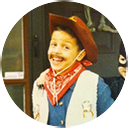
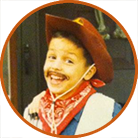
new orange border on image, trying to get mobile header image to fit proper

diff --git a/themes/mintheme/static/css/main.less b/themes/mintheme/static/css/main.less
@@ -71,7 +71,12 @@ img {
         .eric {
             float: none !important;
             margin-top: 30px !important;
+            margin-bottom: 70px !important;
             margin-right: 0 !important;
+
+            background-image: url('../images/eric3_large.png') !important;
+            width: 275px !important;
+            height: 275px !important;
         }
         .title {
             display: none;
@@ -94,6 +99,12 @@ img {
             }
         }
     }
+
+    .footer {
+        .social-icons {
+            margin-top: 25px;
+        }
+    }
 }
 
 /*
@@ -108,6 +119,10 @@ img {
         margin-right: 35px;
         border: 0;
         padding: 0;
+
+        background-image: url('../images/eric3.png');
+        width: 138px;
+        height: 138px;
     }
     .title {
         font-weight: 300 !important;
@@ -141,18 +156,20 @@ img {
         font-size: 12px;
     }
 
-    .fa {
-        margin-left: 5px;
-        &:hover {
-            color: #63bdff;
+    .social-icons {
+        .fa {
+            margin-left: 5px;
+            &:hover {
+                color: #63bdff;
+            }
         }
-    }
 
-    .fa-rss { color: #FF6600; }
-    .fa-twitter { color: #4099ff; }
-    .fa-facebook { color: #3B5998; }
-    .fa-linkedin { color: #0e76a8; }
-    .fa-github { color: rgb(122, 122, 122); }
+        .fa-rss { color: #FF6600; }
+        .fa-twitter { color: #4099ff; }
+        .fa-facebook { color: #3B5998; }
+        .fa-linkedin { color: #0e76a8; }
+        .fa-github { color: rgb(122, 122, 122); }
+    }
 }
 
 

diff --git a/themes/mintheme/static/css/main.css b/themes/mintheme/static/css/main.css
@@ -67,7 +67,11 @@ img {
   .header .eric {
     float: none !important;
     margin-top: 30px !important;
+    margin-bottom: 70px !important;
     margin-right: 0 !important;
+    background-image: url('../images/eric3_large.png') !important;
+    width: 275px !important;
+    height: 275px !important;
   }
   .header .title {
     display: none;
@@ -88,6 +92,9 @@ img {
     font-size: 32px;
     background-color: #0E0E0E;
   }
+  .footer .social-icons {
+    margin-top: 25px;
+  }
 }
 /*
  * Base stuff, header/footer
@@ -101,6 +108,9 @@ img {
   margin-right: 35px;
   border: 0;
   padding: 0;
+  background-image: url('../images/eric3.png');
+  width: 138px;
+  height: 138px;
 }
 .header .title {
   font-weight: 300 !important;
@@ -127,25 +137,25 @@ img {
 .footer .credit {
   font-size: 12px;
 }
-.footer .fa {
+.footer .social-icons .fa {
   margin-left: 5px;
 }
-.footer .fa:hover {
+.footer .social-icons .fa:hover {
   color: #63bdff;
 }
-.footer .fa-rss {
+.footer .social-icons .fa-rss {
   color: #FF6600;
 }
-.footer .fa-twitter {
+.footer .social-icons .fa-twitter {
   color: #4099ff;
 }
-.footer .fa-facebook {
+.footer .social-icons .fa-facebook {
   color: #3B5998;
 }
-.footer .fa-linkedin {
+.footer .social-icons .fa-linkedin {
   color: #0e76a8;
 }
-.footer .fa-github {
+.footer .social-icons .fa-github {
   color: #7a7a7a;
 }
 /*

diff --git a/themes/mintheme/templates/base.html b/themes/mintheme/templates/base.html
@@ -22,7 +22,7 @@
     <div class="container header">
         <div class="row">
             <div class="col-lg-12">
-                <a href="{{ SITEURL }}/index.html"><img src="{{ SITEURL }}/theme/images/eric3.png" class="eric"></a>
+                <a href="{{ SITEURL }}/index.html" class="eric"> </a>
 
                 <h1 class="title">{{ SITENAME }}</h1>
 
@@ -47,7 +47,7 @@
                     <a href="mailto:eric@ckcollab.com">eric carmichael</a> whipped this up using <a href="https://github.com/getpelican/pelican">pelican</a>
                 </div>
 
-                <div class="pull-right">
+                <div class="pull-right social-icons">
                     <a href="{{ SITEURL }}/feeds/all.atom.xml"><i class="fa fa-rss"></i></a>
                     <a href="http://github.com/ckcollab/" target="_blank"><i class="fa fa-github"></i></a>
                     <a href="https://twitter.com/CKCollab" target="_blank"><i class="fa fa-twitter"></i></a>
